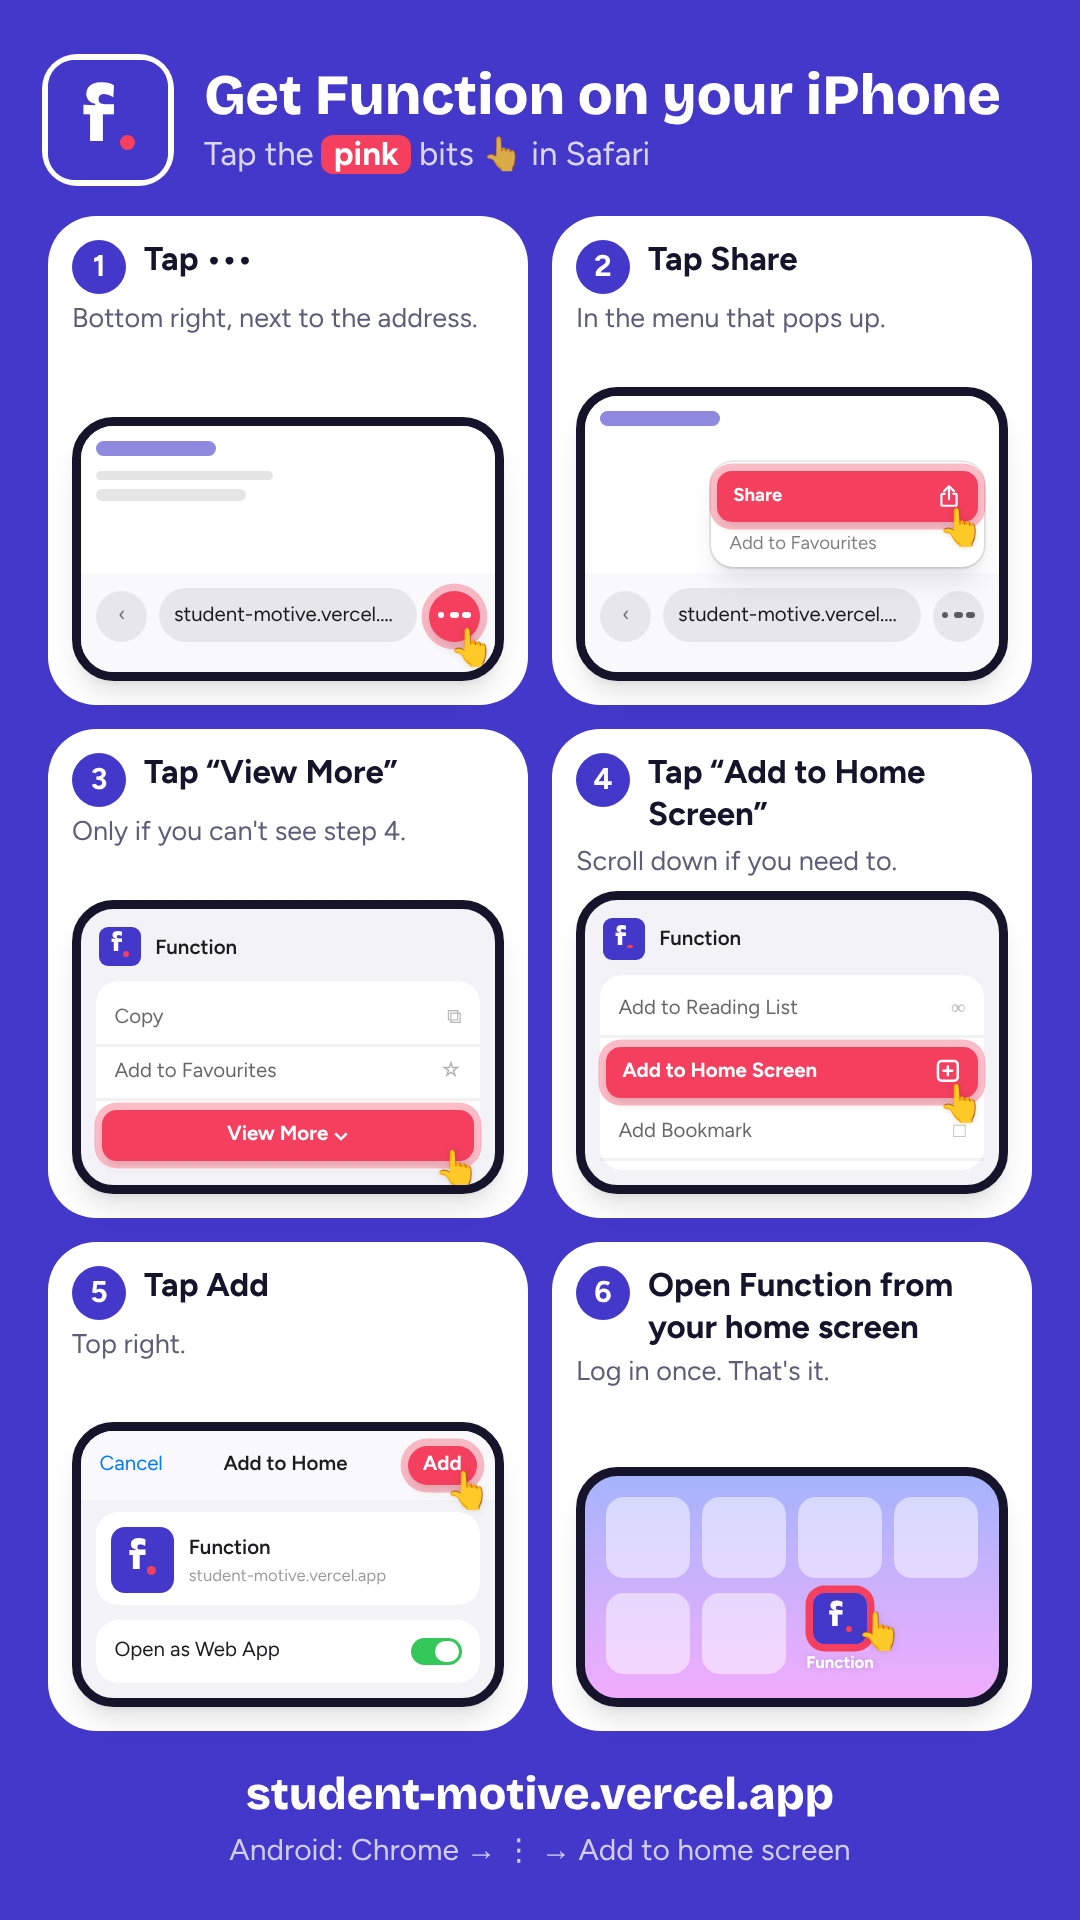
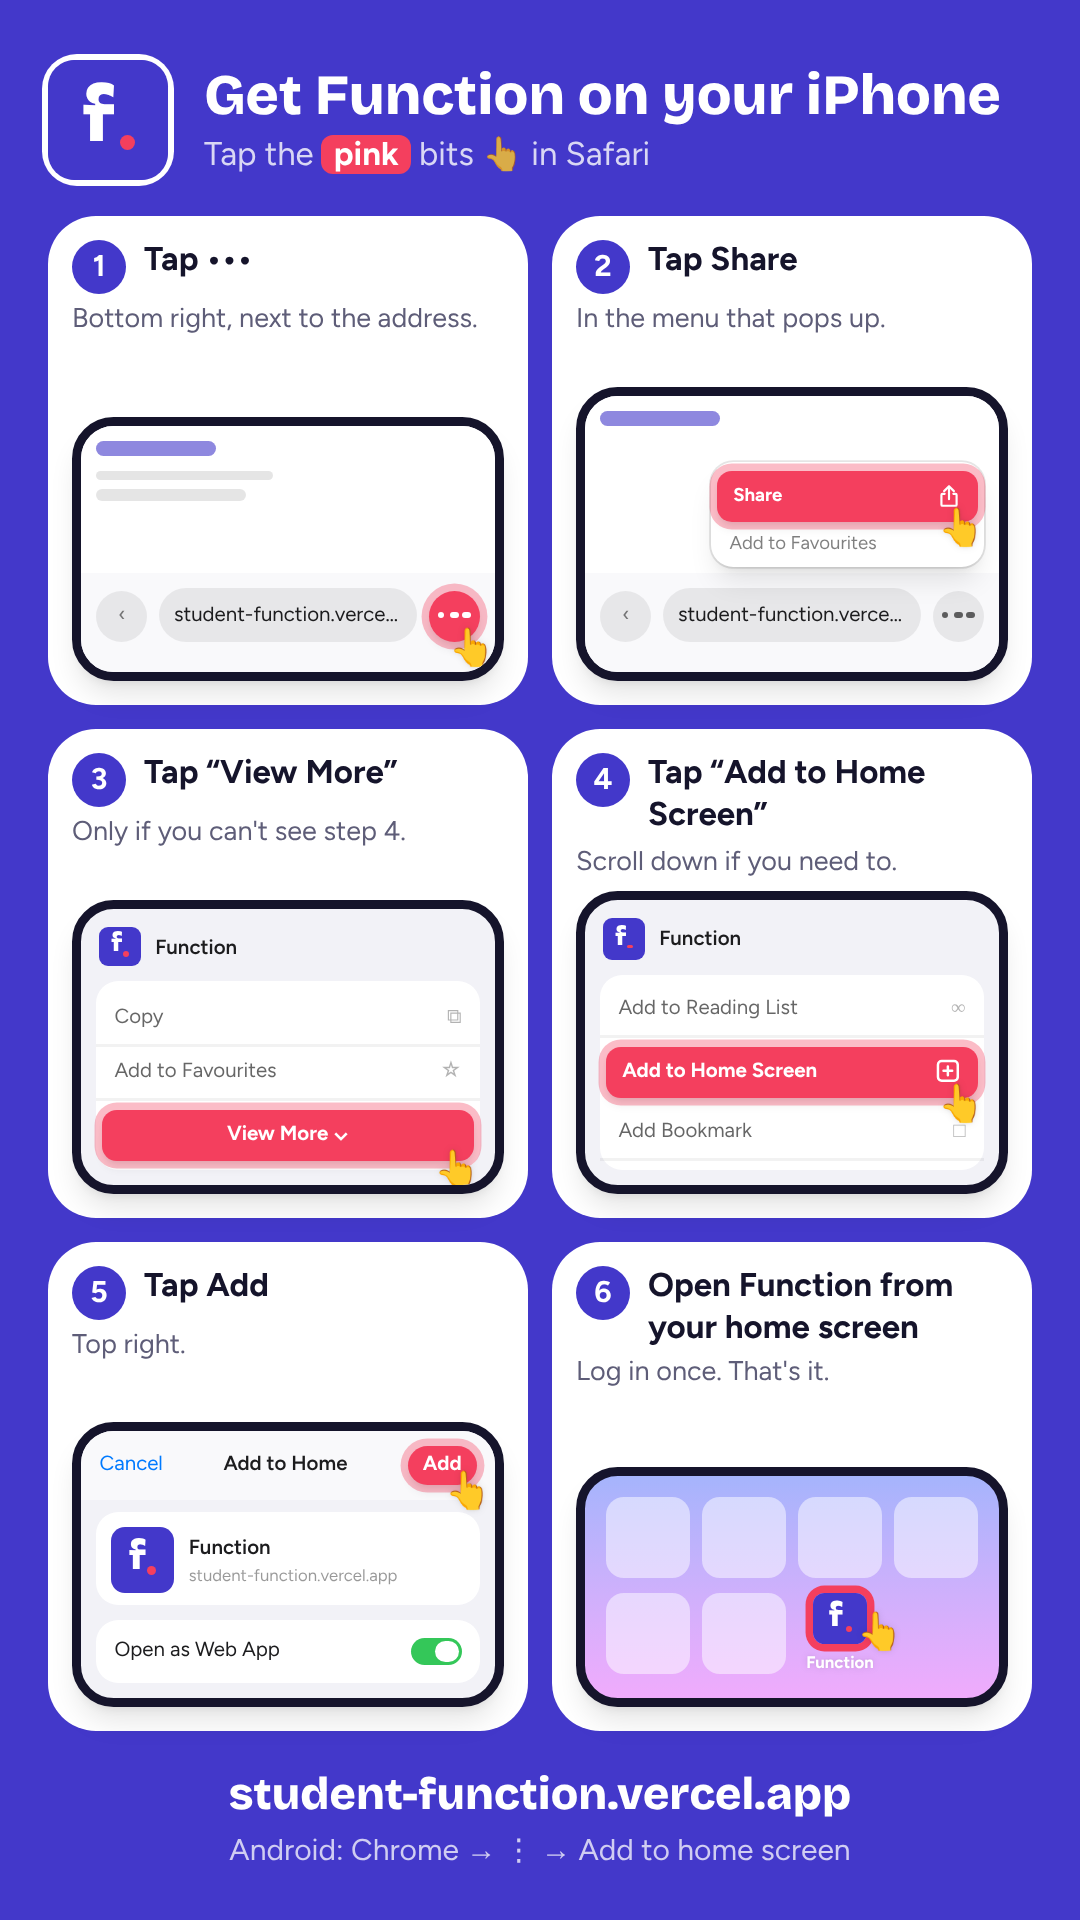
Install guide: take the web address from NEXT_PUBLIC_SITE_URL
The copy-link box, drawings and steps picture now show whatever address
the site is set to, ready for student-function.vercel.app.

Claude-Session: https://claude.ai/code/session_01UPPr3xYWKh4pSKrCPw6HSW

diff --git a/web/src/app/install/illustrations.tsx b/web/src/app/install/illustrations.tsx
@@ -1,9 +1,10 @@
 import type { ReactNode } from "react";
+import { SITE_HOST } from "@/lib/site";
 
 // Little drawings of what you'll see on your phone at each step of
 // "Add to Home Screen". Used by the install page and the shareable poster.
 
-const MOTIVE_URL = "student-motive.vercel.app";
+const SITE_ADDRESS = SITE_HOST;
 
 export function ShareIcon({ className = "size-5" }: { className?: string }) {
   return (
@@ -105,7 +106,7 @@ function SafariBar({ tapDots }: { tapDots: boolean }) {
   return (
     <div className="flex items-center gap-1.5 bg-[#f9f9fb] px-2 pt-2 pb-4">
       <span className="grid size-7 shrink-0 place-items-center rounded-full bg-black/[0.07] text-black/50">‹</span>
-      <span className="flex-1 truncate rounded-full bg-black/[0.07] px-2 py-1.5 text-center">{MOTIVE_URL}</span>
+      <span className="flex-1 truncate rounded-full bg-black/[0.07] px-2 py-1.5 text-center">{SITE_ADDRESS}</span>
       {tapDots ? (
         <Tap className="size-7 shrink-0"><Dots /></Tap>
       ) : (
@@ -191,7 +192,7 @@ export function IphoneAddDialog() {
         <AppTile size={34} />
         <div className="min-w-0">
           <p className="font-semibold">Function</p>
-          <p className="truncate text-[9px] text-black/40">{MOTIVE_URL}</p>
+          <p className="truncate text-[9px] text-black/40">{SITE_ADDRESS}</p>
         </div>
       </div>
       <div className="mx-2 mb-2 flex items-center justify-between rounded-xl bg-white px-2.5 py-2">
@@ -225,7 +226,7 @@ export function AndroidChrome() {
   return (
     <Screen>
       <div className="flex items-center gap-1.5 bg-white px-2 py-2">
-        <span className="flex-1 truncate rounded-full bg-black/[0.07] px-2 py-1.5">{MOTIVE_URL}</span>
+        <span className="flex-1 truncate rounded-full bg-black/[0.07] px-2 py-1.5">{SITE_ADDRESS}</span>
         <Tap className="size-7"><Dots vertical /></Tap>
       </div>
       <PageSketch className="h-20" />
@@ -260,7 +261,7 @@ export function AndroidInstall() {
           <AppTile size={30} />
           <div>
             <p className="font-semibold">Function</p>
-            <p className="text-[9px] text-black/40">{MOTIVE_URL}</p>
+            <p className="text-[9px] text-black/40">{SITE_ADDRESS}</p>
           </div>
         </div>
         <div className="mt-3 flex justify-end gap-3">

diff --git a/web/src/app/install/install-guide.tsx b/web/src/app/install/install-guide.tsx
@@ -2,6 +2,7 @@
 
 import Link from "next/link";
 import { useState } from "react";
+import { SITE_HOST, SITE_URL } from "@/lib/site";
 import { oneTapInstall, useCanOneTapInstall, useDevice } from "@/lib/install";
 import { ANDROID_STEPS, IPHONE_STEPS, type InstallStep } from "./illustrations";
 
@@ -140,7 +141,7 @@ function Steps({ steps, browserDone }: { steps: InstallStep[]; browserDone: stri
   );
 }
 
-const INSTALL_LINK = "https://student-motive.vercel.app/install";
+const INSTALL_LINK = `${SITE_URL}/install`;
 
 // The link in a box you can see, select, and copy with one tap.
 function CopyLink() {
@@ -159,7 +160,7 @@ function CopyLink() {
   return (
     <span className="mt-2 flex items-center gap-2 rounded-xl border border-line bg-surface p-1.5 pl-3">
       <span className="min-w-0 flex-1 text-sm font-bold text-ink select-all">
-        student-motive.vercel.app<wbr />/install
+        {SITE_HOST}<wbr />/install
       </span>
       <button
         type="button"

diff --git a/web/src/app/install/poster/page.tsx b/web/src/app/install/poster/page.tsx
@@ -1,4 +1,5 @@
 import type { Metadata } from "next";
+import { SITE_HOST } from "@/lib/site";
 import { IPHONE_STEPS, AppTile } from "../illustrations";
 
 // A phone-shaped poster of the iPhone steps (1080x1920 when captured at 3x).
@@ -30,7 +31,7 @@ export default function PosterPage() {
             </li>
           ))}
         </ol>
-        <p className="mt-2.5 text-center font-display text-[15px] font-extrabold">student-motive.vercel.app</p>
+        <p className="mt-2.5 text-center font-display text-[15px] font-extrabold">{SITE_HOST}</p>
         <p className="text-center text-[10px] text-white/75">Android: Chrome → ⋮ → Add to home screen</p>
       </div>
     </div>

diff --git a/web/src/lib/site.ts b/web/src/lib/site.ts
@@ -3,3 +3,6 @@
 export const CONTACT_EMAIL = process.env.NEXT_PUBLIC_CONTACT_EMAIL || "hello@example.com";
 
 export const SITE_URL = process.env.NEXT_PUBLIC_SITE_URL || "http://localhost:3000";
+
+// The address without "https://", for showing on screen.
+export const SITE_HOST = SITE_URL.replace(/^https?:\/\//, "").replace(/\/$/, "");
